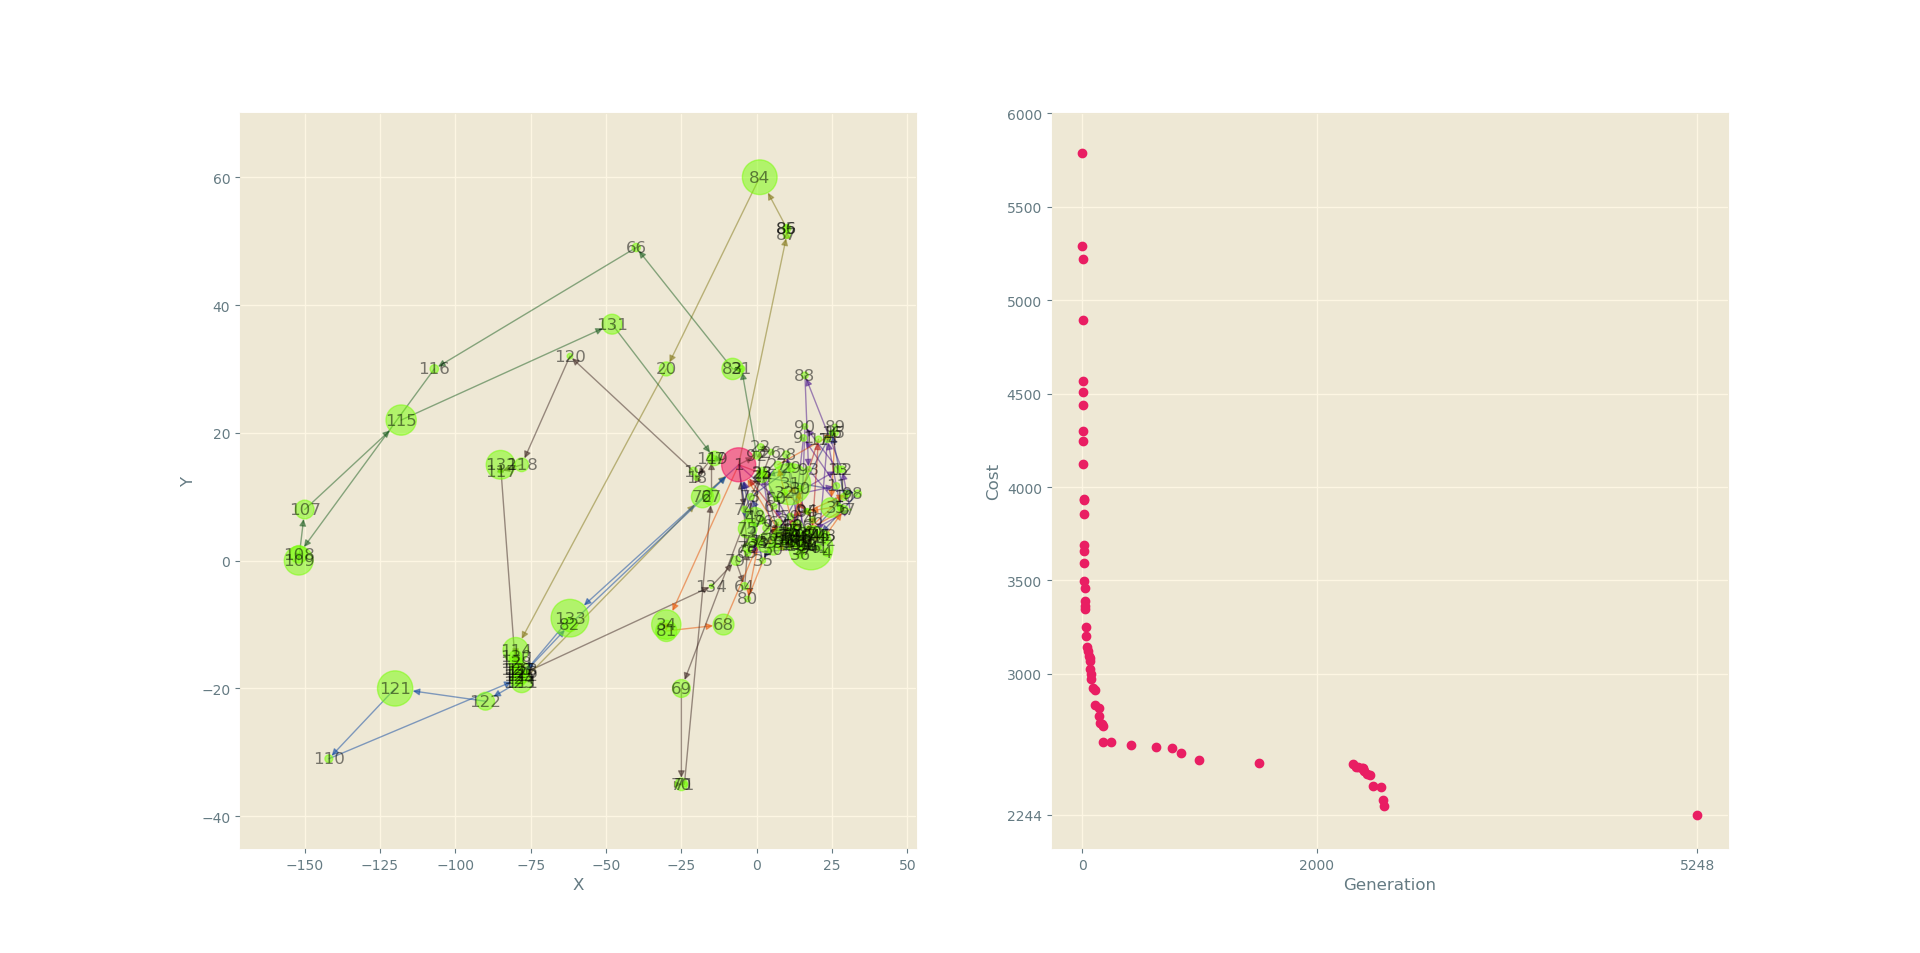
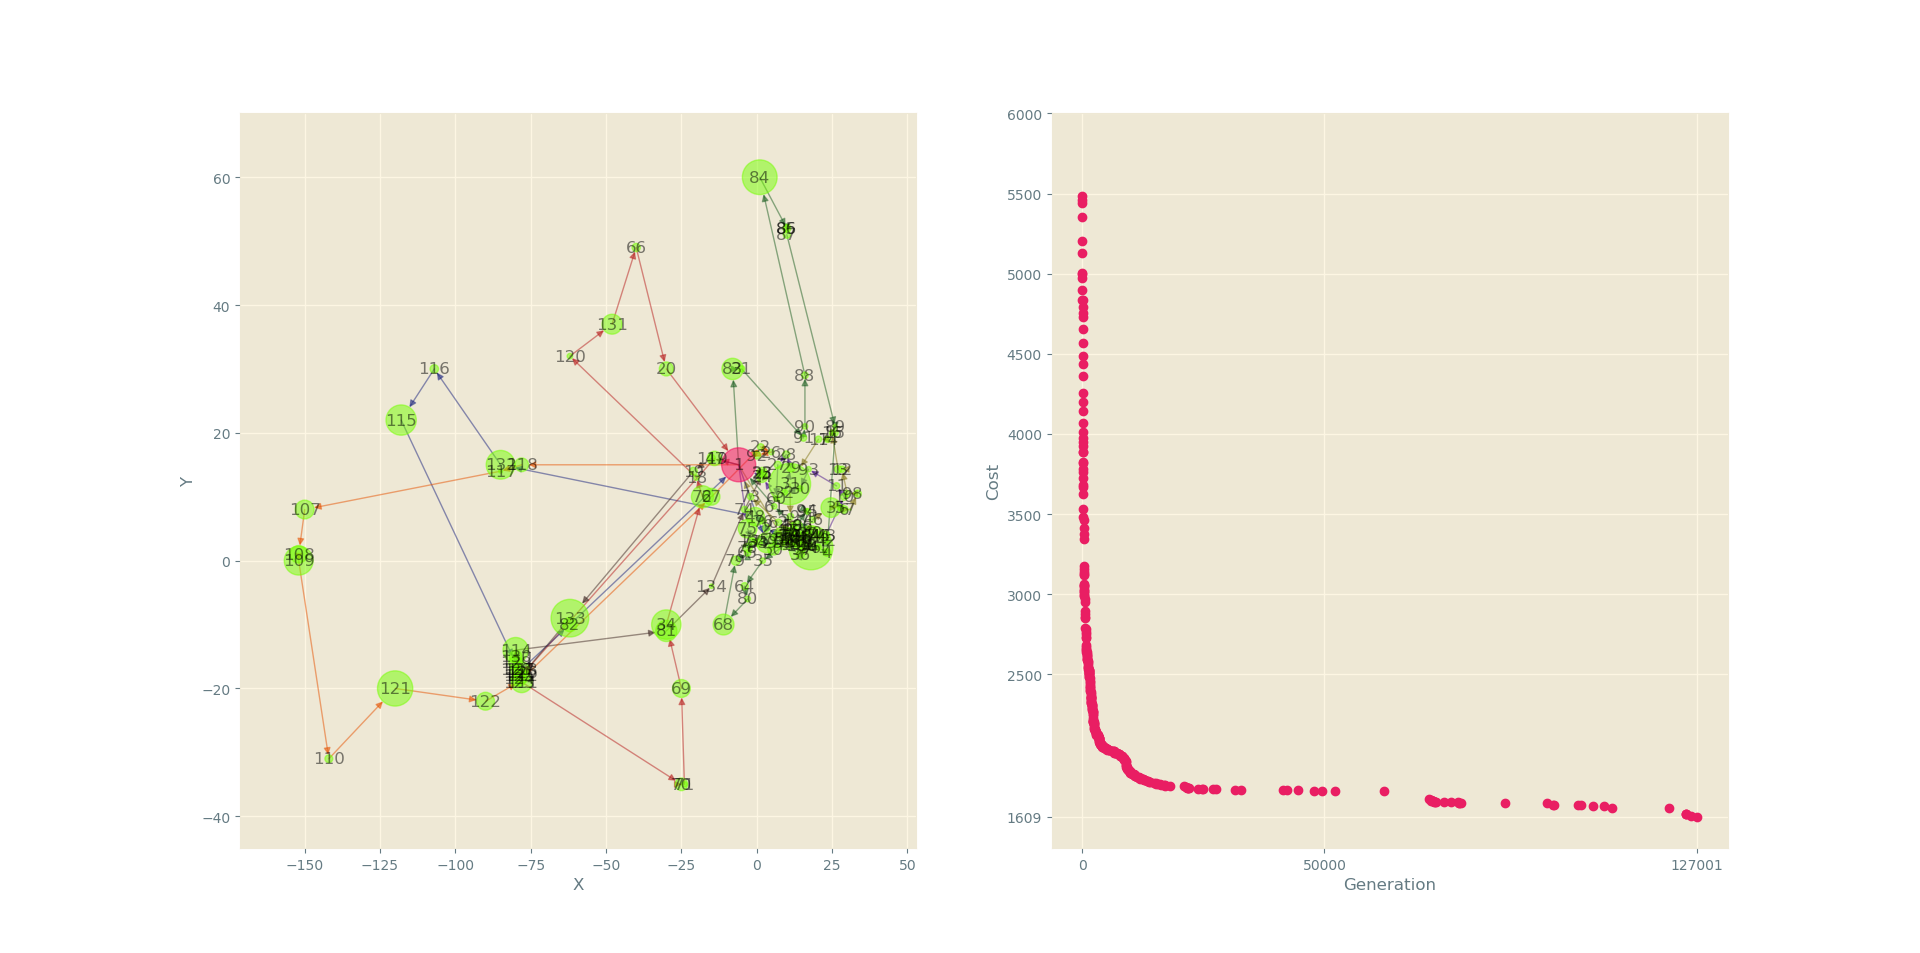
next

diff --git a/src/genetic_algo.rs b/src/genetic_algo.rs
@@ -28,9 +28,10 @@ pub type IterationNumber = usize;
 pub fn find_best_path(data: &data::Data, iteration_number: IterationNumber) -> BestPath {
     let population_size = ((0.7 * data.index_to_id.len() as f64).powf(2.0)) as usize;
     let survivor_number = (population_size as f64).sqrt() as usize;
+    let elite_survivor_number = 1;
 
     let crossover_rate = 0.7;
-    let mutation_rate = 0.02;
+    let mutation_rate = 0.01;
 
     let mut best_solution_performance = Vec::new();
 
@@ -66,10 +67,26 @@ pub fn find_best_path(data: &data::Data, iteration_number: IterationNumber) -> B
             bar.set_message(&format!("Best result: {}", best_so_far.0));
         }
 
+        let new_population = {
+            let mut x: Vec<_> = population.iter().enumerate().map(|(i, ch)| (chromosome_cost[i], ch)).collect();
+            pdqselect::select_by_key(&mut x, elite_survivor_number, |&(cost, _)| cost); 
+
+            x.truncate(elite_survivor_number);
+            let mut res = Vec::with_capacity(elite_survivor_number + survivor_number);
+            for &(_, ch) in x.iter() {
+                res.push(ch.clone());
+            }
+
+            res
+        };
+
         let survivors =
             tournament_selection(survivor_number, &mut population, &chromosome_cost, &mut rng);
 
-        population.clear();
+
+        population = new_population;
+
+        // population.clear();
 
         for (i, parent_a) in survivors.iter().enumerate() {
             for (j, parent_b) in survivors.iter().enumerate() {
@@ -181,7 +198,7 @@ fn pmx_crossover(
 }
 
 fn mutate(chromosome: &mut Vec<data::NodeIndex>, rng: &mut impl rand::Rng, mutation_rate: f64) {
-    for _ in 0..chromosome.len() / 2 {
+    for _ in 0..chromosome.len() {
         if !rng.gen_bool(mutation_rate) {
             continue;
         }

diff --git a/README.md b/README.md
@@ -7,6 +7,9 @@ cargo build --release
 ./target/release/cvrp-genetic data-sets/F-n45-k4.json 100 | ./parse_results.py
 ```
 
+![](pictures/demo.gif)
+
+
 ## Requirements
 
 * Rust and Cargo: install stable toolchain via https://github.com/rust-lang/rustup.rs
